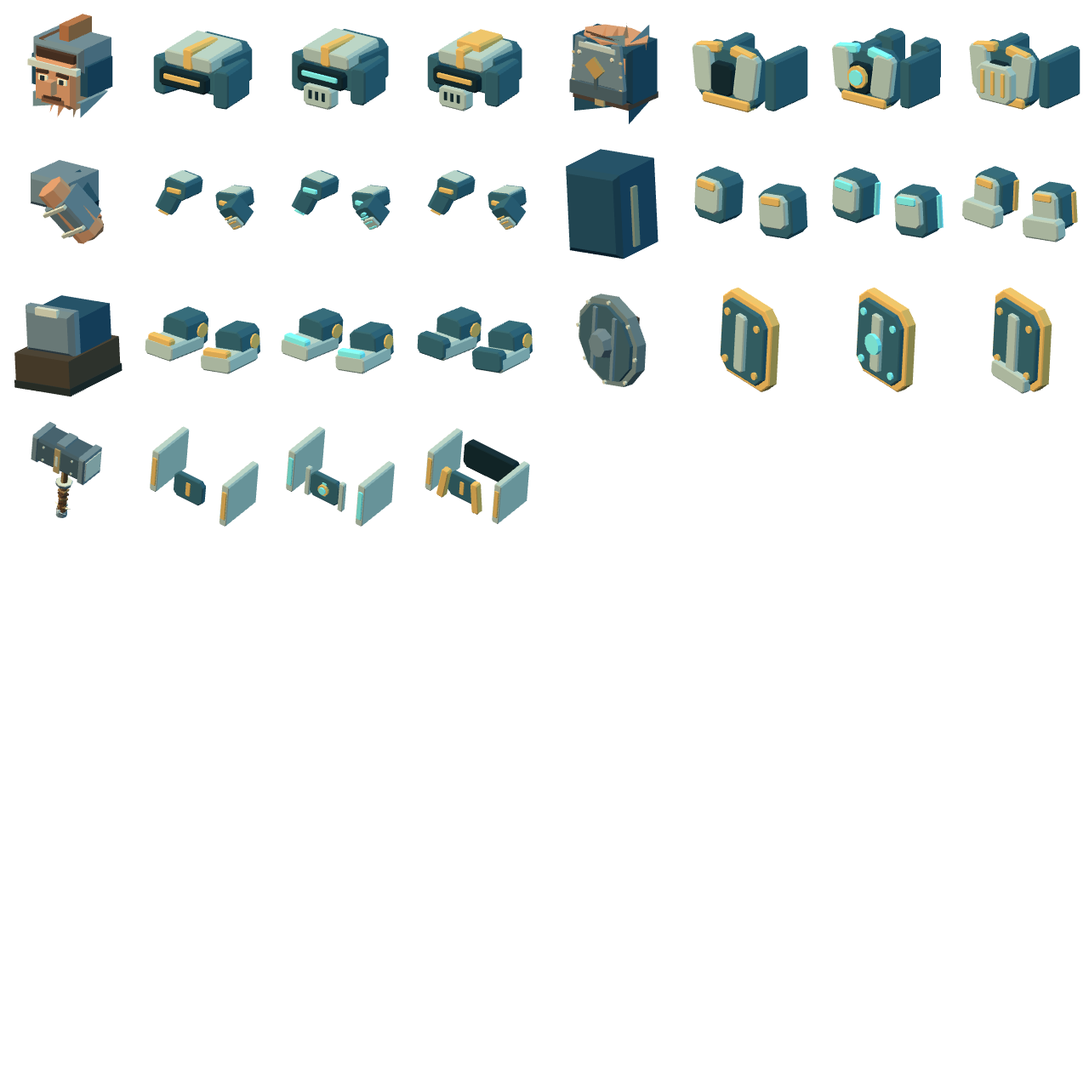
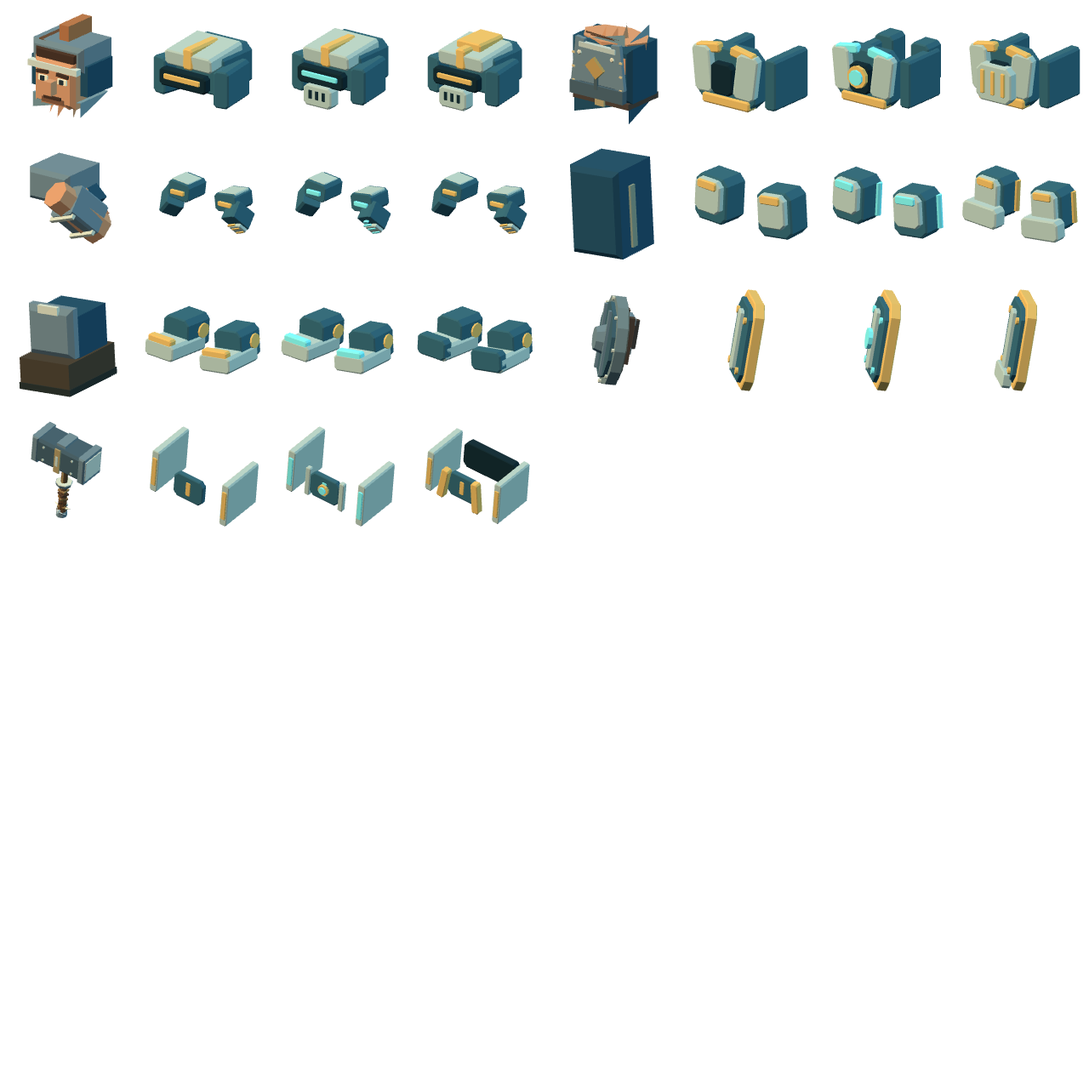
Reveal the siege tank and clarify the shield carry

diff --git a/game.js b/game.js
@@ -1,4 +1,4 @@
-import {createMountWorkshop} from './mount-workshop.js?v=20261110-shield';
+import {createMountWorkshop} from './mount-workshop.js?v=20261110-tall-rider';
 import {createSaveStore} from './save-store.js?v=20261108-armory1';
 import {applyArmoryCustomization} from './armory-customization.js?v=20261109-loot1';
 import {createWeaponModel} from './armory-models.js?v=20261109-trophies1';
@@ -8,8 +8,8 @@ import {resolveArmory,armoryAvailable,armoryStats,blueprint,awardBossWeapon,awar
 import {CAMP_RARE_CHANCE,WAVE_RARE_CHANCE,nextRareWeapon,patrolIntent} from './expedition-enemies.js?v=1';
 import {applyPlayerCustomization} from './player-customization.js?v=20261108-workshop1';
 import {MountWeapons} from './mount-weapons.js?v=20261110-tank-drive';
-import {SiegeTank,SIEGE_HP,SIEGE_SONIC_RANGE,SIEGE_SONIC_ANGLE} from './siege-tank.js?v=20261110-tank-drive';
-import {MountRide} from './mount-ride.js?v=20261108-workshop1';
+import {SiegeTank,SIEGE_HP,SIEGE_SONIC_RANGE,SIEGE_SONIC_ANGLE} from './siege-tank.js?v=20261110-tank-marker';
+import {MountRide} from './mount-ride.js?v=20261110-tall-rider';
 import {restoreGarage,playerCustomStats} from './mount-rules.js?v=20261109-loot1';
 import {VehicleEffects,isExplosiveProp,VEHICLE_BLAST_RADIUS,preloadVehicleExplosion} from './vehicle-effects.js?v=20261108-mount1';
 import {HydrantEffects} from './hydrant-effects.js?v=20261108-props1';
@@ -27,7 +27,7 @@ import {selectThrowLock,previewThrowChain,punchStats,samplePunchMotion,nearestPi
 import {findGeometryRest,geometryRestValid} from './weapon-rest.js?v=20261107-forge9';
 import {bodyMass,enemyLevel,enemyHealthColor,isVehicle,kickStats,kickVelocity,transferMomentum,wallSlamResponse,firstVehicleContact,sampleKickMotion} from './kick-physics.js?v=20261108-mount1';
 import * as THREE from './vendor/three.module.js';
-import {makeWarrior,makeEnemy,makeTreasure} from './models.js?v=20261110-shield';
+import {makeWarrior,makeEnemy,makeTreasure} from './models.js?v=20261110-shield-carry';
 import {makeCityEnemy,installEnemyHead} from './enemy-models.js?v=20261110-tank-drive';
 import {createWorld} from './world.js?v=20261110-falling-trees';
 import {createJungleRavine,RAVINE_ID} from './jungle-ravine.js?v=falling-trees';
@@ -1089,7 +1089,7 @@ function killEnemy(e,credited=true){
     const reward=e.type==='siegeTransformer'?'w19':e.type==='hollowMarshal'?'w20':null;
     if(reward)dropWeapon(e,reward);
     if(credited&&e.type==='siegeTransformer'&&siegeTank?.dropChip(world,e)){
-      toast('ΕΠΕΣΕ ΤΟ CHIP ΚΙΝΗΤΗΡΑ','Σήκωσέ το και βρες το σπασμένο άρμα στον χάρτη.','#a6ecd7');persistCharacter();
+      toast('ΑΡΜΑ ΣΤΟΝ ΧΑΡΤΗ','Πάρε το πορτοκαλί chip και πήγαινε στο γαλάζιο άρμα. Κοντά του πάτησε C ή το κουμπί επιβίβασης.','#a6ecd7');persistCharacter();
     }
   }
   if(e.rareWeapon)dropWeapon(e,e.rareWeapon);
@@ -2817,7 +2817,7 @@ function updatePlayer(dt){
   updateHammerAura();
 }
 function poseShieldKneel(u,blend,moving){
-  const thighLength=.30,shinLength=.22,hipHeight=u.legRest?.height??.62;
+  const {thighLength,shinLength,height:hipHeight}=u.legRest;
   const hipDrop=.22;
   const phase=player.walk*1.8;
   u.body.position.y-=hipDrop*blend;
@@ -2901,7 +2901,8 @@ function poseHero(dt,moving=false){
     const brace=scream?screamBrace(scream.age)*(.76+.24*scream.profile.power):screamReleaseBrace*smooth(screamRecover/SCREAM_RECOVERY);
     const lean=.31*brace,hipHeight=u.legRest?.height??.62;
     const kneeBend=!moving&&!leap&&dashTime<=0?-.40*Math.max(0,brace):0;
-    const hipsBack=.30*Math.sin(kneeBend),hipsDown=.30*(1-Math.cos(kneeBend));
+    const thighLength=u.legRest.thighLength;
+    const hipsBack=thighLength*Math.sin(kneeBend),hipsDown=thighLength*(1-Math.cos(kneeBend));
     // Pivot at the pelvis. Counter-rotate the shins to keep the soles flat
     // while the thighs flex and the pelvis shifts down and back.
     u.body.rotation.x+=lean;
@@ -2920,7 +2921,7 @@ function poseHero(dt,moving=false){
   u.setStance?.(stance);
   const rest=u.weaponRest||{x:.55,y:0,z:-.72},rp=u.weaponRestPosition||{x:0,y:1.04,z:.38};
   const rig=u.weaponRig,restQuaternion=new THREE.Quaternion().setFromEuler(new THREE.Euler(rest.x,rest.y,rest.z));
-  rig.position.set(rp.x,rp.y,rp.z);rig.quaternion.copy(restQuaternion);
+  rig.position.set(rp.x,rp.y-.12*kneel,rp.z);rig.quaternion.copy(restQuaternion);
   u.setReach?.(Math.max(.65,stats.range+(swing?swing.q*1.4:0)-.55-(u.getHeadForwardExtent?.()||.52*stats.size)-.43));
   if(swing){
     if(swing.blocked){
@@ -3344,13 +3345,33 @@ function drawMinimap(){
   if(encounter?.entry){marker(encounter.entry.location,'mini');minis++;}
   const hasBoss=!!boss&&!boss.dead;
   if(hasBoss)marker(boss.state==='enter'&&boss.entry?.stage!=='roar'?boss.entry.location:boss,'boss');
-  if(siegeTank?.model?.visible&&!siegeTank.active){
-    const position=siegeTank.chip?.position??siegeTank.body,x=clamp(px(position),5,w-5),y=clamp(pz(position),5,h-5);
-    c.fillStyle='#a6ecd7';c.fillRect(x-3,y-3,6,6);c.strokeStyle='#183135';c.lineWidth=1.5;c.strokeRect(x-3,y-3,6,6);
+  const tank=siegeTank?.discovered&&!siegeTank.active?siegeTank:null;
+  const chip=tank?.chip?.position;
+  if(tank){
+    const x=clamp(px(tank.body),10,w-10),y=clamp(pz(tank.body),10,h-10);
+    c.fillStyle='#10242a';c.strokeStyle='#8ff8ff';c.lineWidth=2;
+    c.beginPath();c.arc(x,y,8,0,Math.PI*2);c.fill();c.stroke();
+    c.fillStyle='#8ff8ff';c.fillRect(x-4.5,y-2,9,5);c.fillRect(x-1,y-4,6,2);
+    if(chip){
+      const cx=clamp(px(chip),6,w-6),cy=clamp(pz(chip),6,h-6);
+      const [markerX,markerY]=[[0,0],[0,-15],[15,0],[0,15],[-15,0]]
+        .map(([dx,dy])=>[clamp(cx+dx,6,w-6),clamp(cy+dy,6,h-6)])
+        .find(([mx,my])=>Math.hypot(mx-x,my-y)>13&&Math.hypot(mx-playerX,my-playerY)>11)??[cx,cy];
+      c.strokeStyle='#ffc068';c.lineWidth=1;c.beginPath();c.moveTo(cx,cy);c.lineTo(markerX,markerY);c.stroke();
+      c.fillStyle='#ffc068';c.strokeStyle='#10242a';c.lineWidth=2;c.beginPath();
+      c.moveTo(markerX,markerY-5);c.lineTo(markerX+5,markerY);c.lineTo(markerX,markerY+5);c.lineTo(markerX-5,markerY);c.closePath();c.fill();c.stroke();
+    }
+  }
+  const tankKey=$('tankMapKey');
+  if(tankKey){
+    tankKey.hidden=!tank;
+    const caption=tank?'Άρμα · '+Math.round(Math.hypot(tank.body.x-player.x,tank.body.z-player.z))+' μ.':'';
+    if($('tankMapDistance').textContent!==caption)$('tankMapDistance').textContent=caption;
+    $('chipMapKey').hidden=!chip;
   }
   c.save();c.translate(playerX,playerY);c.rotate(angle-Math.atan2(facing.x,facing.z));
   c.fillStyle='#83f4e7';c.strokeStyle='#071418';c.lineWidth=2;c.beginPath();c.moveTo(0,7);c.lineTo(-5,-4.5);c.lineTo(0,-2);c.lineTo(5,-4.5);c.closePath();c.fill();c.stroke();c.restore();
-  const label='Χάρτης: '+ordinary+' εχθροί, '+minis+' mini-boss, '+(hasBoss?'ο Κολοσσός είναι ενεργός':'ο Κολοσσός δεν έχει εμφανιστεί');
+  const label='Χάρτης: '+ordinary+' εχθροί, '+minis+' mini-boss, '+(hasBoss?'ο Κολοσσός είναι ενεργός':'ο Κολοσσός δεν έχει εμφανιστεί')+(tank?', άρμα πολιορκίας':'')+(chip?', chip κινητήρα':'');
   if(map.getAttribute('aria-label')!==label)map.setAttribute('aria-label',label);
 }
 function screenPoint(x,y,z){tempV.set(x,y,z).project(camera);return {x:(tempV.x*.5+.5)*screenW,y:(-.5*tempV.y+.5)*screenH,inside:tempV.z<1&&tempV.z>-1};}

diff --git a/models.js b/models.js
@@ -309,22 +309,22 @@ export function makeWarrior() {
   box(body, P.gold, 0, 1.96, -.025, .06, .12, .29);
   compact(body);
 
-  const legRest = Object.freeze({ spread: .25, height: .62, splay: .055, turnOut: .055 });
+  const legRest = Object.freeze({ spread: .235, height: .71, thighLength: .345, shinLength: .265, splay: .055, turnOut: .055 });
   const leftLeg = restLimb(limb(root, 'leftLeg', -legRest.spread, legRest.height, 0, P.blueDark, P.steel, P.ink), -1, legRest.splay, legRest.turnOut);
   const rightLeg = restLimb(limb(root, 'rightLeg', legRest.spread, legRest.height, 0, P.blueDark, P.steel, P.ink), 1, legRest.splay, legRest.turnOut);
   // Preserve the leg roots used by walking, but give kicks an actual knee.
   for(const leg of [leftLeg,rightLeg]){
     // Existing storm-tier geometry remains the reference for normal walking;
     // replacement equipment is authored into these two independent pieces.
-    const thigh=group(leg,'thigh'),shin=group(leg,'shin',0,-.30,0);
-    const ankle=group(shin,'ankle',0,-.22,0);
+    const thigh=group(leg,'thigh'),shin=group(leg,'shin',0,-legRest.thighLength,0);
+    const ankle=group(shin,'ankle',0,-legRest.shinLength,0);
     leg.userData.thigh=thigh;leg.userData.shin=shin;leg.userData.ankle=ankle;
     leg.userData.foot=group(ankle,'footContact',0,0,.27);
   }
   // Articulated arms connect fixed shoulders to hero-owned gauntlets. A hand
   // can follow a shield handle, a hammer grip or a throwing follow-through.
   function grippingArm(side) {
-    const arm = group(root, side < 0 ? 'leftArm' : 'rightArm', side * .51, 1.28, .015);
+    const arm = group(root, side < 0 ? 'leftArm' : 'rightArm', side * .46, 1.37, .015);
     const pauldron = group(arm, 'pauldron');
     box(pauldron, P.steel, side * .025, -.015, 0, .36, .23, .44, 0, 0, side * .13);
     box(pauldron, P.pale, side * .03, .095, .025, .29, .065, .35, 0, 0, side * .13);
@@ -350,7 +350,7 @@ export function makeWarrior() {
     { arm: rightArm, position: rightArm.position.clone() },
   ];
 
-  const cape = group(root, 'cape', 0, 1.32, -.27);
+  const cape = group(root, 'cape', 0, 1.41, -.27);
   box(cape, 0xc86035, 0, -.25, -.06, .6, .59, .07, -.17);
   box(cape, P.hot, -.13, -.62, -.14, .38, .27, .08, -.25, 0, -.06);
   box(cape, 0x923b30, .22, -.58, -.13, .18, .24, .08, -.25, 0, .08);
@@ -447,14 +447,14 @@ export function makeWarrior() {
   function setUnarmedPose(pose) { unarmedPose = pose; }
   function setRidingAnchor(anchor) { ridingAnchor=anchor; }
   let shieldEquipped = true;
-  const shieldFront = new THREE.Vector3(-.72, 1.025, .5);
+  const shieldFront = new THREE.Vector3(-.83, .99, .35);
   const shieldBack = new THREE.Vector3(0, 1.11, -.55);
   const shieldPath = new THREE.CubicBezierCurve3(shieldFront,
     new THREE.Vector3(-1.04, 1.84, .42), new THREE.Vector3(-.91, 1.88, -.74), shieldBack);
   const shieldRaised = new THREE.Vector3(-.27, 1.42, .66);
   const shieldStrike = new THREE.Vector3(-.86, 1.13, .62);
   const shieldLevel = new THREE.Quaternion();
-  const shieldFrontQuaternion = new THREE.Quaternion().setFromEuler(new THREE.Euler(.06, -.25, -.13));
+  const shieldFrontQuaternion = new THREE.Quaternion().setFromEuler(new THREE.Euler(-.25, -.78, -.10));
   const shieldBackQuaternion = new THREE.Quaternion().setFromEuler(new THREE.Euler(.07, Math.PI, .04));
   const leftJoinControl = new THREE.Vector3(-.75, 1.43, .16);
   const emptyRight = new THREE.Vector3(.61, 1.22, .66);
@@ -619,8 +619,7 @@ export function makeWarrior() {
     weaponRest.z = -.24 + (-.72 + .24) * stance;
     weaponRestPosition.set(.53 * (1 - stance), .98 + .06 * stance, .23 + .15 * stance);
     if (equipmentTier < 2) {
-      // Carry the heavy wood forward with bent elbows, rather than balancing
-      // it upright on one wrist. Both anchor points stay on the real handle.
+      // Carry the club on the weapon side with a relaxed elbow.
       weaponRest.x = .30 + .56 * stance;
       weaponRest.z = -.23 - .05 * stance;
       weaponRestPosition.set(.48 - .60 * stance, .93 - .03 * stance, .25 + .05 * stance);
@@ -930,6 +929,12 @@ export function makeWarrior() {
     // brighten the hammer without turning the survivor's skin electric blue.
     const bodyClones = new Map(), weaponClones = new Map(), all = [], weaponMats = [];
     for (const [slot, children] of parts) for (const child of children) {
+      if (child.isMesh && slot === body) {
+        child.position.y += legRest.height - .62;
+        child.scale.x *= .93;
+      }
+      if (child.isMesh && slot.name === 'thigh') child.scale.y *= legRest.thighLength / .30;
+      if (child.isMesh && slot.name === 'shin') child.scale.y *= legRest.shinLength / .22;
       child.traverse(mesh => {
         if (!mesh.isMesh) return;
         mesh.userData.equipmentTier = tier;
@@ -1073,8 +1078,9 @@ export function makeWarrior() {
       box(g, 0x502e2e, .21, -.55, -.13, .17, .20, .08, -.25, 0, .08);
     });
     draw(shield, g => {
-      const radius = tier < 2 ? .40 : tier === 2 ? .43 : .50;
-      cylinder(g, tier < 2 ? 0x564133 : 0x697b7f, 0, -.035, 0, radius, radius, .12, 10, Math.PI / 2);
+      const radius = tier < 3 ? .46 : .50;
+      cylinder(g, tier < 2 ? 0x9aafaa : 0x697b7f, 0, -.035, 0, radius, radius, .12, 12, Math.PI / 2);
+      cylinder(g, tier < 2 ? 0x765137 : 0x4c5654, 0, -.035, -.06, radius - .055, radius - .055, .045, 12, Math.PI / 2);
       cylinder(g, tier < 2 ? 0x98683e : tier === 2 ? 0x6c5944 : 0x3b5966, 0, -.035, .075, radius - .07, radius - .07, .055, 10, Math.PI / 2);
       for (const x of [-.16, .16]) box(g, iron, x, -.035, .115, .05, radius * 1.45, .035);
       for (let rivet = 0; rivet < 8; rivet++) {

diff --git a/mount-rider.js b/mount-rider.js
@@ -1,33 +1,35 @@
 import * as THREE from './vendor/three.module.js';
 
 const target=new THREE.Vector3(),hip=new THREE.Vector3(),rotatedHip=new THREE.Vector3();
-const ARCH_Y=-.30,ARCH_Z=.075,THIGH=.30,SHIN=Math.hypot(ARCH_Y,ARCH_Z),BETA=Math.atan2(ARCH_Z,-ARCH_Y);
+const ARCH_Z=.075;
 const clamp=(n,a,b)=>Math.max(a,Math.min(b,n));
 /** Rider and mount share a parent. Keep the pelvis on the authored saddle,
  * solve real leg joints to the pedal/peg, and let the existing arm IK steer. */
 export function poseMountedRider(hero,mount,{kick=false}={}){
  const u=hero.userData,m=mount.userData;
+ const {height,thighLength,shinLength}=u.legRest;
+ const archY=-shinLength-.08,shin=Math.hypot(archY,ARCH_Z),beta=Math.atan2(ARCH_Z,-archY);
  target.set(0,m.riderOffset,m.riderZ).applyQuaternion(mount.quaternion).add(mount.position);
  // Preserve the mount's authored yaw representation. Quaternion -> XYZ Euler
  // decomposition past90 degrees introduces X/Z half-turns; later walking code
  // updates only Y, which mirrors aiming after dismounting.
  hero.position.copy(target);hero.rotation.copy(mount.rotation);
  u.body.rotation.x=clamp(u.body.rotation.x+.12,-.16,.34);u.body.rotation.y=clamp(u.body.rotation.y,-.48,.48);u.body.rotation.z=clamp(u.body.rotation.z,-.16,.16);
- hip.set(0,.74,0);rotatedHip.copy(hip).applyQuaternion(u.body.quaternion);u.body.position.copy(hip).sub(rotatedHip);
+ hip.set(0,height+.12,0);rotatedHip.copy(hip).applyQuaternion(u.body.quaternion);u.body.position.copy(hip).sub(rotatedHip);
  hero.updateWorldMatrix(true,false);mount.updateWorldMatrix(true,true);
  for(const [side,leg,pedal]of [[-1,u.leftLeg,m.markers.leftPedal],[1,u.rightLeg,m.markers.rightPedal]]){
-  leg.position.set(side*m.pedalSpread,u.legRest?.height??.62,0);
+  leg.position.set(side*m.pedalSpread,height,0);
   if(kick&&side===1)continue;
   leg.rotation.set(0,0,0);
   pedal.getWorldPosition(target);target.y+=.025;hero.worldToLocal(target);target.sub(leg.position);
-  const dy=target.y,dz=target.z,d=clamp(Math.hypot(dy,dz),.005,THIGH+SHIN-.000001);
-  const bend=Math.acos(clamp((d*d-THIGH*THIGH-SHIN*SHIN)/(2*THIGH*SHIN),-1,1));
-  const shoulder=Math.atan2(SHIN*Math.sin(bend),THIGH+SHIN*Math.cos(bend));
-  leg.rotation.x=-(Math.atan2(dz,-dy)+shoulder);leg.userData.shin.rotation.x=BETA+bend;
+  const dy=target.y,dz=target.z,d=clamp(Math.hypot(dy,dz),.005,thighLength+shin-.000001);
+  const bend=Math.acos(clamp((d*d-thighLength*thighLength-shin*shin)/(2*thighLength*shin),-1,1));
+  const shoulder=Math.atan2(shin*Math.sin(bend),thighLength+shin*Math.cos(bend));
+  leg.rotation.x=-(Math.atan2(dz,-dy)+shoulder);leg.userData.shin.rotation.x=beta+bend;
   // Pedals have their own spindle. Align the platform to the boot sole;
   // rotating the crank must not turn the rider's foot upside down.
   pedal.rotation.x=leg.rotation.x+leg.userData.shin.rotation.x-(m.kind==='bicycle'?m.crank.rotation.x:0);
-  if(!leg.userData.pedalContact){const marker=new THREE.Object3D();marker.name='pedalContact';marker.position.set(0,ARCH_Y,ARCH_Z);leg.userData.shin.add(marker);leg.userData.pedalContact=marker;}
+  if(!leg.userData.pedalContact){const marker=new THREE.Object3D();marker.name='pedalContact';marker.position.set(0,archY,ARCH_Z);leg.userData.shin.add(marker);leg.userData.pedalContact=marker;}
  }
  u.setRidingAnchor?.(m.markers.leftGrip);
 }

diff --git a/index.html b/index.html
@@ -27,7 +27,7 @@
   <meta name="description" content="IRONFALL: Ένα retro 3D παιχνίδι καταστροφής και επιβίωσης. Σήκωσε το σφυρί, σπάσε την πόλη και αντιμετώπισε την ορδή.">
   <title>IRONFALL — Hammer the Horde</title>
   <link rel="icon" href="./favicon.svg" type="image/svg+xml">
-  <link rel="stylesheet" href="./style.css?v=20261109.8">
+  <link rel="stylesheet" href="./style.css?v=20261110-tank-marker">
   <link rel="stylesheet" href="./controls.css?v=20261109-recovery">
   <link rel="stylesheet" href="./menu.css?v=20261109-zoom-lock">
   <link rel="stylesheet" href="./level-picker.css?v=20261109-jungle-select">
@@ -400,6 +400,7 @@
       </div>
       <canvas id="minimap" width="140" height="140" aria-label="Χάρτης με τον παίκτη και τους εχθρούς"></canvas>
       <div class="map-legend"><span><i class="player-dot"></i> Εσύ</span><span><i class="enemy-dot"></i> Εχθρός</span><span><i class="miniboss-dot"></i> Mini</span><span><i class="boss-dot"></i> Boss</span></div>
+      <div id="tankMapKey" class="tank-map-key" hidden><span><i aria-hidden="true"></i><span id="tankMapDistance"></span></span><span id="chipMapKey" hidden><i aria-hidden="true"></i>Chip</span></div>
     </aside>
 
     <div id="throwAimStatus" class="throw-aim-status" role="status" aria-live="polite" hidden></div>
@@ -582,6 +583,6 @@
       "./armory-geometry.js":"./armory-geometry.js?v=20261109.9"
     }}
   </script>
-  <script type="module" src="./game.js?v=20261110-shield-trees"></script>
+  <script type="module" src="./game.js?v=20261110-tank-shield"></script>
 </body>
 </html>

diff --git a/siege-tank.js b/siege-tank.js
@@ -1,5 +1,5 @@
 import * as THREE from './vendor/three.module.js';
-import {MountRide} from './mount-ride.js?v=20261108-workshop1';
+import {MountRide} from './mount-ride.js?v=20261110-tall-rider';
 import {makeSiegeEngineChip,makeSiegeRecoveryTank} from './enemy-models.js?v=20261110-tank-drive';
 import {LevelStorm} from './level-storm.js?v=20261109-recovery';
 import {ScreamWave} from './scream.js?v=20261109-shout-brace';
@@ -57,7 +57,9 @@ export class SiegeTank extends MountRide {
     if(world.river)return;
     this.collision=SHAPES.tank;this.yaw=0;
     const sites=[[-44,22],[-22,44],[-44,0],[44,22],[-66,44],[22,44]];
-    const site=sites.find(([x,z])=>this.clear(world,x,z,0,0));
+    const clearSite=([x,z])=>Math.max(Math.abs(x),Math.abs(z))<world.bounds-5&&this.clear(world,x,z,0,0);
+    const roads=world.layout?.roads??[];
+    const site=sites.find(clearSite)??roads.flatMap(x=>roads.map(z=>[x,z])).find(clearSite);
     if(!site)return;
     this.state='broken';this.hp=0;this.timer=0;this.fold=this.foldTarget=1;
     this.speed=this.vertical=this.walk=this.dashTime=this.dashCooldown=this.jumpCooldown=0;
@@ -102,6 +104,8 @@ export class SiegeTank extends MountRide {
     this.chip=makeSiegeEngineChip();this.chip.position.set(location.x,.65,location.z);
     this.scene.add(this.chip);return true;
   }
+
+  get discovered(){return !!this.model&&(!!this.chip||this.hasChip||this.state==='charging'||this.state==='ready'||this.state==='fuse');}
 
   isNear(player){return this.model&&this.state!=='destroyed'&&Math.hypot(player.x-this.body.x,player.z-this.body.z)<6&&Math.abs(player.y-this.body.y)<2;}
 

diff --git a/mount-workshop.js b/mount-workshop.js
@@ -1,11 +1,11 @@
 import * as THREE from './vendor/three.module.js';
 import {makeWarrior} from './models.js?v=20261110-shield';
-import {createMountModel} from './mount-models.js?v=20261108-workshop1';import {poseMountedRider,resetMountedRider} from './mount-rider.js?v=20261108-startup1';
+import {createMountModel} from './mount-models.js?v=20261108-workshop1';import {poseMountedRider,resetMountedRider} from './mount-rider.js?v=20261110-tall-rider';
 import {applyArmoryCustomization} from './armory-customization.js?v=20261109-trophies1';
 import {armoryArt} from './armory-art.js?v=20261109-trophies1';
 import {WEAPON_BLUEPRINTS,SHIELD_BLUEPRINTS,armoryParts,armoryStats,armoryAvailable,equipBlueprint,equipArmoryPart,paintArmoryPart,purchaseArmoryPart,armoryQuote,resolveArmory,blueprint,BOSS_WEAPON_INFO,awardBossWeapon} from './armory-rules.js?v=20261109-loot1';
 import {applyPlayerCustomization} from './player-customization.js?v=20261108-workshop1';
-import {partArt,toolArt} from './workshop-art.js?v=20261110-shield';
+import {partArt,toolArt} from './workshop-art.js?v=20261110-shield-carry';
 import {equipmentBuilder} from './equipment-shapes.js?v=20261108-workshop1';
 import {armoryPalette} from './armory-geometry.js';
 import {MOUNT_FAMILIES,partDefinitions,partRank,garageParts,upgradeQuote,purchasePart,equipPart,restoreGarage,mountStats,playerCustomStats,familyUnlocked,resolveMount} from './mount-rules.js?v=20261109-loot1';

diff --git a/workshop-art.js b/workshop-art.js
@@ -4,6 +4,6 @@ export function partArt(doc,kind,slot,option,tier=0){
  const frame=doc.createElement('span');frame.className='part-art';frame.setAttribute('aria-hidden','true');
  const defs=partDefinitions(kind);let index=slot==='chassis'?63:0;
  if(slot!=='chassis'){for(const p of defs){if(p.id===slot){index+=Math.max(0,p.options.findIndex(o=>o.id===option));break;}index+=p.options.length;}}
- const img=doc.createElement('img');img.alt='';img.src=new URL(`./assets/workshop/${kind==='player'?'player-'+Math.max(0,Math.min(4,tier)):kind}.png?v=20261110-shield`,import.meta.url).href;img.draggable=false;img.style.left=-(index%8)*100+'%';img.style.top=-Math.floor(index/8)*100+'%';frame.append(img);return frame;
+ const img=doc.createElement('img');img.alt='';img.src=new URL(`./assets/workshop/${kind==='player'?'player-'+Math.max(0,Math.min(4,tier)):kind}.png?v=20261110-shield-carry`,import.meta.url).href;img.draggable=false;img.style.left=-(index%8)*100+'%';img.style.top=-Math.floor(index/8)*100+'%';frame.append(img);return frame;
 }
 export function toolArt(doc,id){const span=doc.createElement('span');span.className='tool-art';span.setAttribute('aria-hidden','true');span.innerHTML=`<svg viewBox="0 0 64 64"><use href="${new URL('./assets/workshop/tools.svg',import.meta.url).href}#${id}"/></svg>`;return span;}

diff --git a/style.css b/style.css
@@ -1212,6 +1212,11 @@ body[data-touch-controls="true"] .boss-panel{
 .map-legend .miniboss-dot{background:#f4abff;transform:rotate(45deg);scale:.82}
 .map-legend .boss-dot{position:relative;background:#ffc568;border-radius:50%}
 .map-legend .boss-dot::after{content:'+';position:absolute;inset:0;color:#452919;font:700 9px/8px Arial;text-align:center}
+.tank-map-key:not([hidden]){grid-column:1/-1;display:flex;flex-wrap:wrap;align-items:center;gap:1px 8px;margin-top:5px;padding-top:3px;border-top:1px solid #46696b;color:#8ff8ff;font:700 12px/16px var(--body)}
+.tank-map-key>span:not([hidden]){display:flex;align-items:center;gap:4px;white-space:nowrap}
+.tank-map-key i{width:9px;height:9px;flex:none;border:2px solid currentColor;border-radius:50%}
+#chipMapKey{color:#ffc068}
+#chipMapKey i{border:0;border-radius:0;background:currentColor;transform:rotate(45deg) scale(.75)}
 body[data-touch-controls="true"] .minimap-panel{width:120px}
 body[data-touch-controls="true"] #minimap{width:94px!important;height:94px!important}
 body[data-touch-controls="true"] .boss-panel{width:calc(100vw - var(--mobile-safe-left) - var(--mobile-safe-right) - 130px)}

diff --git a/mount-ride.js b/mount-ride.js
@@ -1,6 +1,6 @@
 import * as THREE from './vendor/three.module.js';
 import {createMountModel} from './mount-models.js?v=20261108-workshop1';
-import {poseMountedRider,resetMountedRider} from './mount-rider.js?v=20261108-startup1';
+import {poseMountedRider,resetMountedRider} from './mount-rider.js?v=20261110-tall-rider';
 import {mountStats,resolveMount,configurationSignature} from './mount-rules.js?v=20261108-workshop1';
 import {firstHammerHit} from './combat.js';
 

diff --git a/progress.md b/progress.md
@@ -374,3 +374,9 @@ Original prompt: Extract and use IRONFALL-Performance14-Full-Project.zip in E:\S
 - All reachable jungle trees have a damageable trunk. Jungle and city trees now fall as intact meshes, leave a landed collider, and skip building fracture debris.
 - The warrior starts with a wooden shield and one-handed weapon. RMB and touch defense raise the left shield and blend into a guarded crouch. Independently articulated hips, knees and ankles preserve planted feet while taking short guarded steps. The shield adds a separately gated close contact during the existing 360-degree attack.
 - WebGPU captures compare the previous guard with the new stance and show continuous guarded walking. The tree test knocked down a previously invulnerable jungle trunk using actual mouse attacks.
+
+## Siege Tank discovery and one-handed carry
+
+- Defeating the Siege Transformer reveals the cyan wreck marker and its distance. A separate amber diamond tracks the engine chip until pickup. The wreck remains on the map through charging and survives a city checkpoint.
+- The right hand carries the weapon. The left hand holds a brighter-rimmed shield farther from the torso. Both legs are slightly longer and the torso is narrower. Guard and mounted pedal contacts use the updated joint lengths.
+- Desktop and touch-emulated WebGPU checks exercised the first mini-boss reward, both minimap marks, chip pickup, the five-second repair and boarding. Captures are in the registered `tests/tank-shield` folder.
